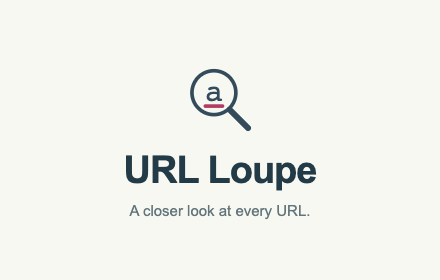
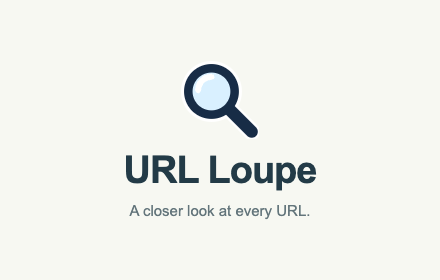
Redesign extension magnifier for small-size contrast

Changed region(s): [[0.4136, 0.2286, 0.5909, 0.5143]]

diff --git a/extension/popup.js b/extension/popup.js
@@ -49,5 +49,5 @@ for(const button of document.querySelectorAll('[data-example]'))button.addEventL
 })();
 
 const originalText=new Map();for(const el of document.querySelectorAll('header p,label,.examples span,.examples button'))originalText.set(el,el.textContent);const originalPlaceholder=input.placeholder;
-function applyLanguage(){openLink.textContent=HostLensI18n.lang==='en'?'Open original URL ↗':'打开原网址 ↗';document.documentElement.lang=HostLensI18n.lang==='en'?'en':'zh-CN';for(const [el,text]of originalText)el.textContent=HostLensI18n.text(text);input.placeholder=HostLensI18n.text(originalPlaceholder);document.getElementById('language').textContent=HostLensI18n.lang==='en'?'中文':'English';document.getElementById('examples-label').textContent=HostLensI18n.lang==='en'?'Examples':'示例';document.getElementById('help-label').textContent=HostLensI18n.lang==='en'?'Help':'帮助';document.getElementById('privacy').textContent=HostLensI18n.lang==='en'?'Privacy':'隐私政策';document.getElementById('usage').textContent=HostLensI18n.lang==='en'?'Right-click a link → 🔍 Inspect with URL Loupe. Also supports host + Tab and link hover. Pink: non-ASCII. Gold: lookalikes.':'右键链接 → 🔍 使用 URL Loupe 检查。也支持 host + Tab 和悬停链接。粉色＝非 ASCII；金框＝形似字符。';if(input.value.trim())check(input.value);}
+function applyLanguage(){openLink.textContent=HostLensI18n.lang==='en'?'Open original URL ↗':'打开原网址 ↗';document.documentElement.lang=HostLensI18n.lang==='en'?'en':'zh-CN';for(const [el,text]of originalText)el.textContent=HostLensI18n.text(text);input.placeholder=HostLensI18n.text(originalPlaceholder);document.getElementById('language').textContent=HostLensI18n.lang==='en'?'中文':'English';document.getElementById('examples-label').textContent=HostLensI18n.lang==='en'?'Examples':'示例';document.getElementById('help-label').textContent=HostLensI18n.lang==='en'?'Help':'帮助';document.getElementById('privacy').textContent=HostLensI18n.lang==='en'?'Privacy':'隐私政策';document.getElementById('usage').textContent=HostLensI18n.lang==='en'?'Right-click a link → Inspect with URL Loupe. Also supports host + Tab and link hover. Pink: non-ASCII. Gold: lookalikes.':'右键链接 → 使用 URL Loupe 检查。也支持 host + Tab 和悬停链接。粉色＝非 ASCII；金框＝形似字符。';if(input.value.trim())check(input.value);}
 document.getElementById('language').addEventListener('click',()=>{HostLensI18n.lang=HostLensI18n.lang==='en'?'zh':'en';applyLanguage();});applyLanguage();

diff --git a/extension/background.js b/extension/background.js
@@ -43,7 +43,7 @@ function registerInspectionMenu(){
     if(chrome.runtime.lastError){console.error('无法创建右键检查入口。');return;}
     chrome.contextMenus.create({
       id:INSPECT_MENU_ID,
-      title:HostLensI18n.lang==='zh' ? '🔍 使用 URL Loupe 检查' : '🔍 Inspect with URL Loupe',
+      title:HostLensI18n.lang==='zh' ? '使用 URL Loupe 检查' : 'Inspect with URL Loupe',
       contexts:['link','selection','page'],
       documentUrlPatterns:['http://*/*','https://*/*']
     },()=>{if(chrome.runtime.lastError)console.error('无法创建右键检查入口。');});

diff --git a/store/上传填写指南.md b/store/上传填写指南.md
@@ -1,10 +1,10 @@
 # URL Loupe Chrome Web Store 上传材料
 
-版本：0.3.6，最低 Chrome 127。此包用于手动上传，尚未向商店提交或通过审核。
+版本：0.3.7，最低 Chrome 127。此包用于手动上传，尚未向商店提交或通过审核。
 
 ## 文件怎么用
 
-上传 `url-loupe-chrome-0.3.6.zip`，其中 manifest.json 位于根目录。不要把整份项目源码 ZIP 或包含本指南的材料 ZIP 当成插件上传。
+上传 `url-loupe-chrome-0.3.7.zip`，其中 manifest.json 位于根目录。不要把整份项目源码 ZIP 或包含本指南的材料 ZIP 当成插件上传。
 
 商品名称与简短介绍由 `_locales/en`、`_locales/zh_CN` 的 manifest 文案提供。默认英文；商店英文介绍复制 listing-en.txt，简体中文本地化复制 listing-zh-CN.txt。
 
@@ -54,7 +54,7 @@ The extension processes URLs locally to extract hostnames but does not collect o
 ## 给审核员的测试说明（英文）
 
 No account, login, payment or API key is required.
-0. Right-click a link on an HTTP(S) page and choose “🔍 Inspect with URL Loupe”. The native toolbar popup must inspect its actual href without visiting it or opening an inspection tab. Selecting plain URL text and right-clicking checks that selection; right-clicking page background checks the page URL.
+0. Right-click a link on an HTTP(S) page and choose “Inspect with URL Loupe”. The native toolbar popup must inspect its actual href without visiting it or opening an inspection tab. Selecting plain URL text and right-clicking checks that selection; right-clicking page background checks the page URL.
 1. Open the toolbar popup and expand Examples and choose the Cyrillic example. Non-ASCII characters are highlighted and the Punycode host is shown.
 2. Paste https://例子.test — both Chinese hostname characters must be highlighted. Paste https://safe.test/中文?x=а — Unicode path/query characters must not produce a non-ASCII hostname warning.
 3. In the address bar type host and press Tab. Enter https://Inkd.test and press Enter. An extension-local review opens; the destination must not be visited.
@@ -72,6 +72,6 @@ Exact matches to saved hostnames suppress generic ASCII character hints. Non-ASC
 
 核对日期：2026-10-20。是否接纳和审核时长由 Chrome Web Store 决定。
 
-## 0.3.6 参考数据
+## 0.3.7 参考数据
 
 插件随包包含 6,890 个去重后的完整 host，合并现有记录与 Google CrUX 2026-09 Top 5000 origin 分组。运行时只存域名，来源与 CC BY 4.0 声明在 vendor/CRUX-NOTICE.txt 中。下载路径为独立导出镜像，不是 Google 官方插件或 Google 认可的安全名单。参考数据不需要联网请求或远程代码。右键检查使用 contextMenus 权限，用于用户主动右键检查。

diff --git a/VALIDATION.md b/VALIDATION.md
@@ -127,3 +127,9 @@ Node.js 22.23.1；`npm test`：14/14 通过。
 - 27 项扩展单测通过。最终 ZIP 隔离 Chromium 实测原生 POPUP 上下文及其 DOM：真实目标、非 ASCII 结果、双语与跳转链接正确；源标签 URL 和标签总数不变。通过实际弹窗链接点击验证完整目标，目标请求拦截为本地响应，无外站访问。独立检查页居中断言、原有面板、IME、悬停与地址栏回归通过。系统原生右键菜单鼠标点击未自动化覆盖，调用其同一处理函数验证。
 - 测试通过 CDP 读取原生工具栏弹窗；主动打开目标会关闭弹窗，因此不等待已关闭弹窗的 Runtime 响应。
 - 商店材料、最低版本说明及隐私政策同步，线上政策部署 36ead494-13de-4b2d-903e-0de441af4a6f 并回读验证。未提交商店。
+
+## 插件图标 0.3.7（2026-10-21）
+
+- 重绘插件放大镜：深蓝粗轮廓、浅蓝镜片、白色外描边，减少透明边距，去除小尺寸下不清晰的字母细节。保留 SVG 源稿与 16/32/48/128 PNG。
+- 右键菜单与帮助文案移除重复的 emoji，沿用 Chrome 原生图标列显示插件放大镜。网站 favicon 保留原设计。
+- 27 项扩展单测通过，验证图标各尺寸、manifest 资源、菜单标题与原检查流程。重新生成 ZIP、宣传图与真实双语截图；检测逻辑、权限和隐私行为不变。

diff --git a/README.zh-CN.md b/README.zh-CN.md
@@ -1,4 +1,4 @@
-# URL Loupe 网站 v0.3.6
+# URL Loupe 网站 v0.3.7
 
 输入网址，即时检查 host 中的非 ASCII 字符、视觉相似字符与公司域名相似候选。所有字符与品牌比对在浏览器本地完成，不访问输入的目标网站。
 
@@ -97,4 +97,4 @@ Wikidata 结构化数据采用 CC0；Unicode 数据、punycode.js、tldts 和 tl
 
 ## Chrome 商店材料
 
-extension/ 当前商店准备版为 0.3.6，新增英文／简体中文与面板语言切换，仍仅做字符检查。打包运行 `node scripts/package-extension.mjs`。商店介绍、权限与隐私填写说明及图片在 store/，公开隐私政策为 https://loupe.zhaidewei.com/privacy.html 。插件 ZIP 已在隔离 Chrome 中加载验证；尚未上传或提交商店审核。
+extension/ 当前商店准备版为 0.3.7，新增英文／简体中文与面板语言切换，仍仅做字符检查。打包运行 `node scripts/package-extension.mjs`。商店介绍、权限与隐私填写说明及图片在 store/，公开隐私政策为 https://loupe.zhaidewei.com/privacy.html 。插件 ZIP 已在隔离 Chrome 中加载验证；尚未上传或提交商店审核。

diff --git a/README.md b/README.md
@@ -68,4 +68,4 @@ npx wrangler@4.127.0 deploy
 
 ## Chrome Web Store package
 
-The extension is version 0.3.6. Run `node scripts/package-extension.mjs` to build the upload ZIP with manifest.json at its root. Store copy and submission notes are in [store/](store/). Public privacy policy: https://loupe.zhaidewei.com/privacy.html. The developer dashboard submission has not been performed.
+The extension is version 0.3.7. Run `node scripts/package-extension.mjs` to build the upload ZIP with manifest.json at its root. Store copy and submission notes are in [store/](store/). Public privacy policy: https://loupe.zhaidewei.com/privacy.html. The developer dashboard submission has not been performed.
